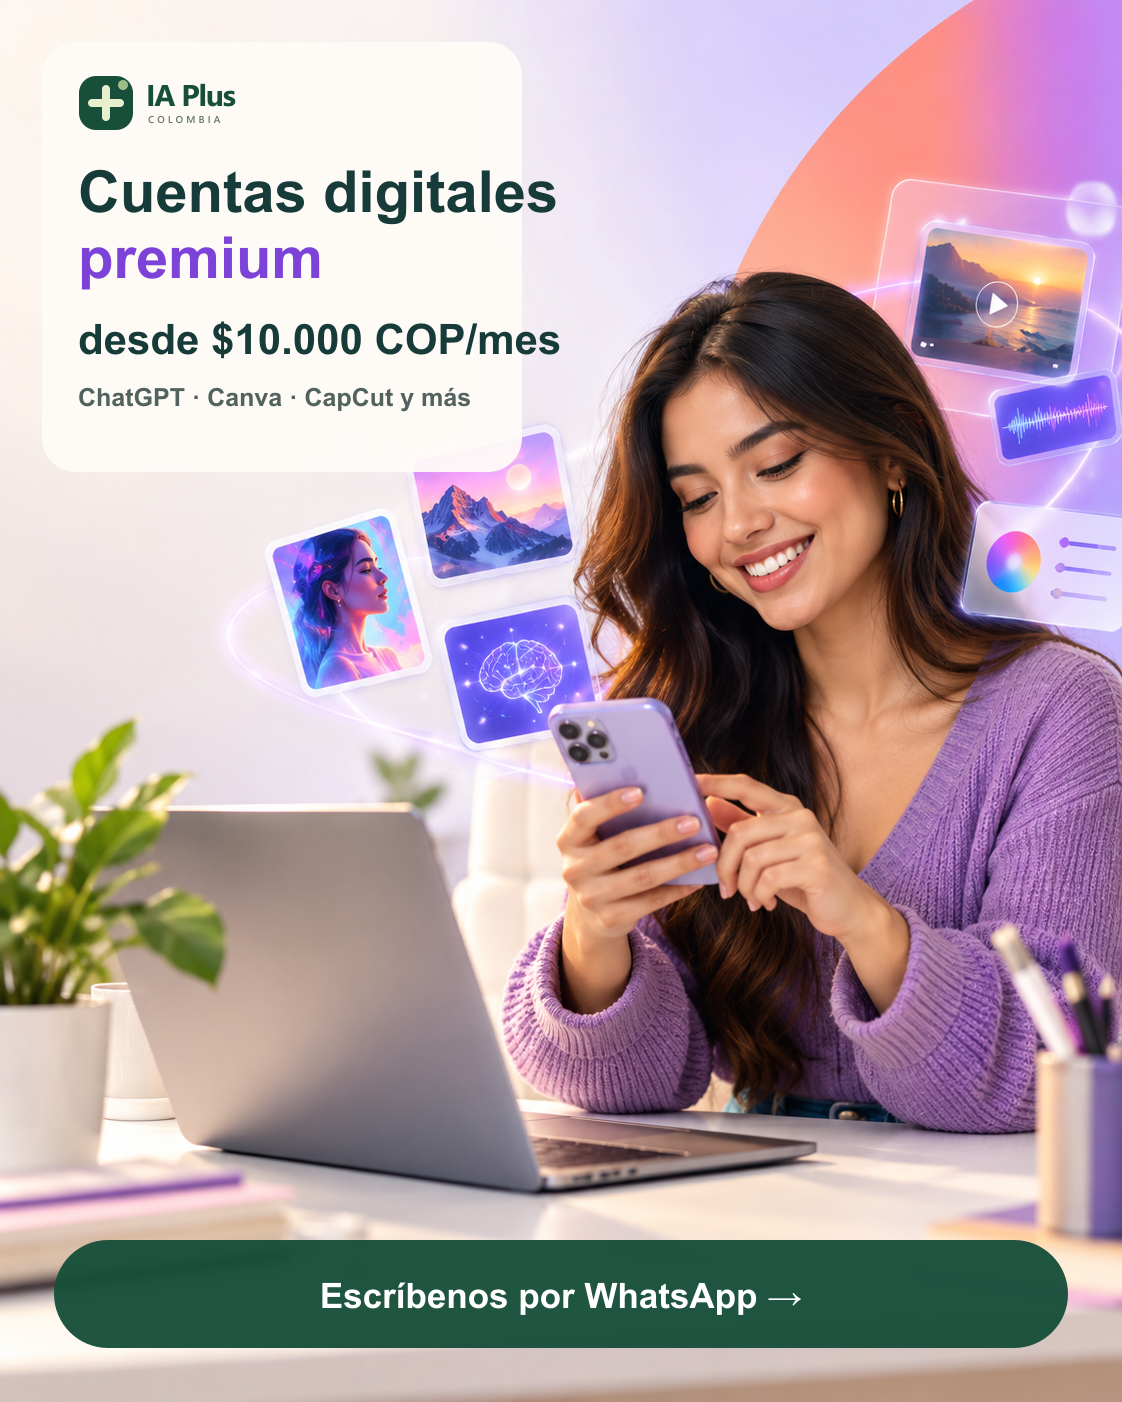
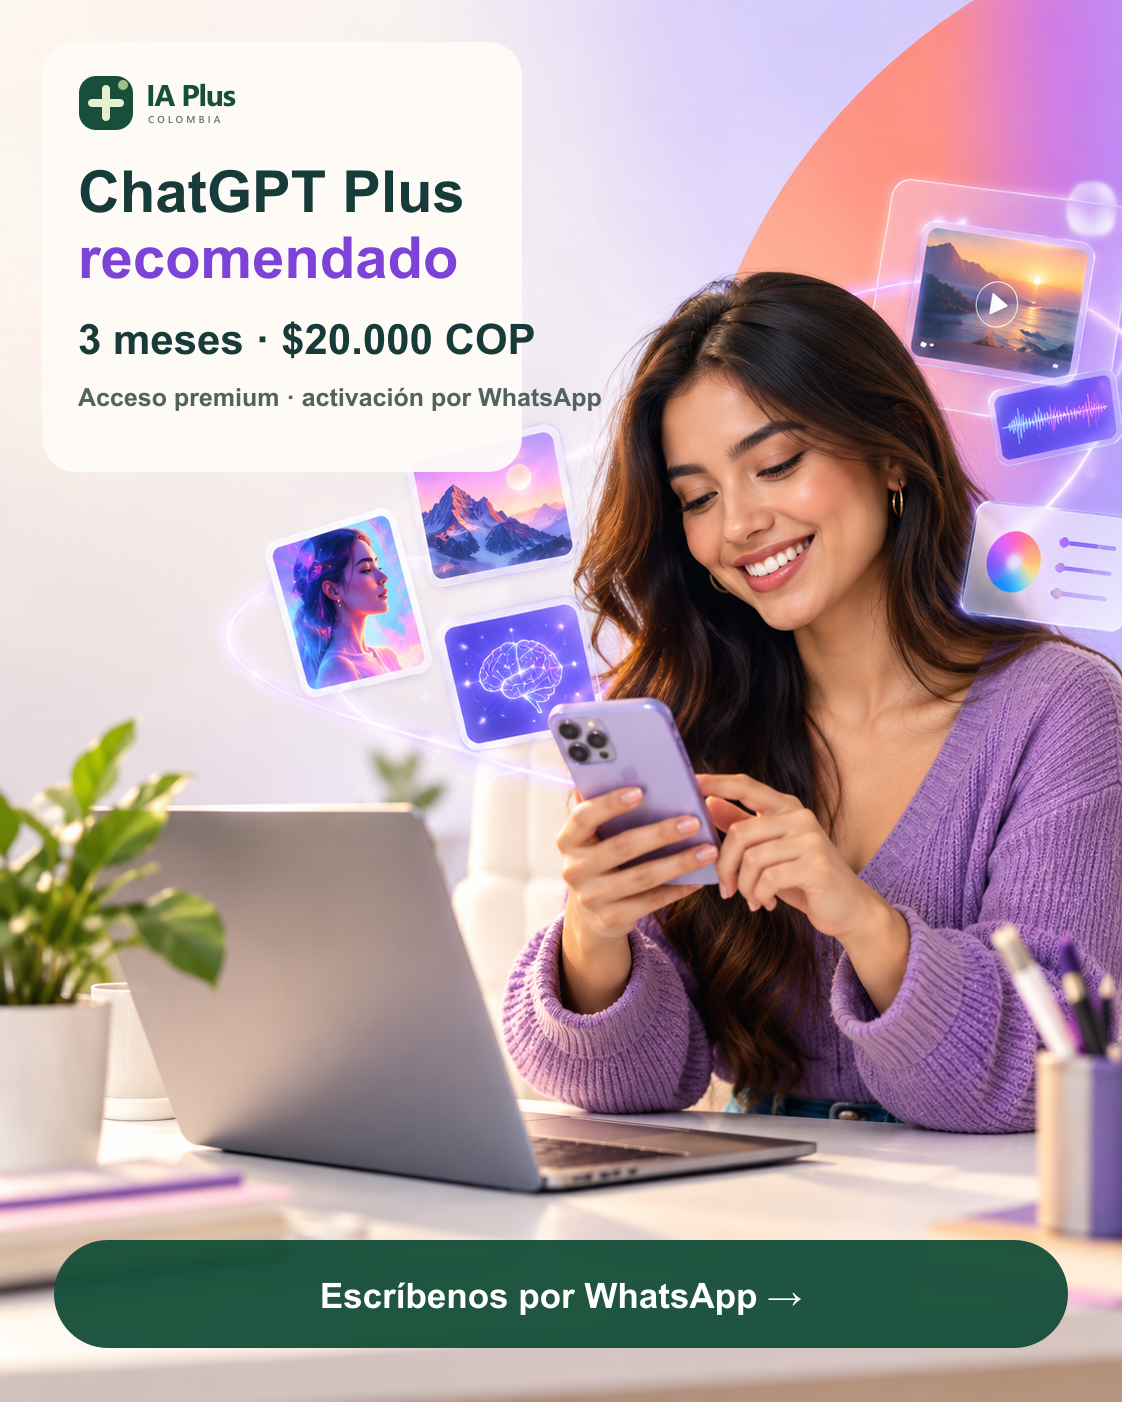
Promote the three-month plan in marketing

Changed region(s): [[0.0624, 0.1227, 0.5303, 0.3067]]

diff --git a/META-ADS.md b/META-ADS.md
@@ -16,13 +16,13 @@ Campaña de **Mensajes** con destino a WhatsApp. El objetivo es recibir consulta
 
 **Texto principal**
 
-¿Buscas herramientas para estudiar, crear o editar? En IA Plus Colombia encuentras cuentas digitales premium desde **$10.000 COP al mes**, con opciones como ChatGPT, Canva, CapCut y más.
+¿Buscas herramientas para estudiar, crear o editar? En IA Plus Colombia encuentras cuentas digitales premium con el plan recomendado de **3 meses por $20.000 COP**, con opciones como ChatGPT, Canva, CapCut y más.
 
 Consulta disponibilidad, duración, modalidad y condiciones antes de comprar. Escríbenos por WhatsApp y te ayudamos a elegir el plan adecuado.
 
 **Título**
 
-Cuentas premium desde $10.000 COP
+ChatGPT Plus · 3 meses por $20.000 COP
 
 **Descripción**
 
@@ -45,3 +45,4 @@ Consulta disponibilidad por WhatsApp
 6. Comenzar con un presupuesto pequeño de prueba y revisar conversaciones, costo por conversación y ventas confirmadas.
 
 El precio es un punto de partida del catálogo; Meta debe mostrar el anuncio solo mientras ese precio y la disponibilidad sean correctos. Mantén visibles las condiciones y la modalidad del plan en la conversación antes de cobrar.
+
